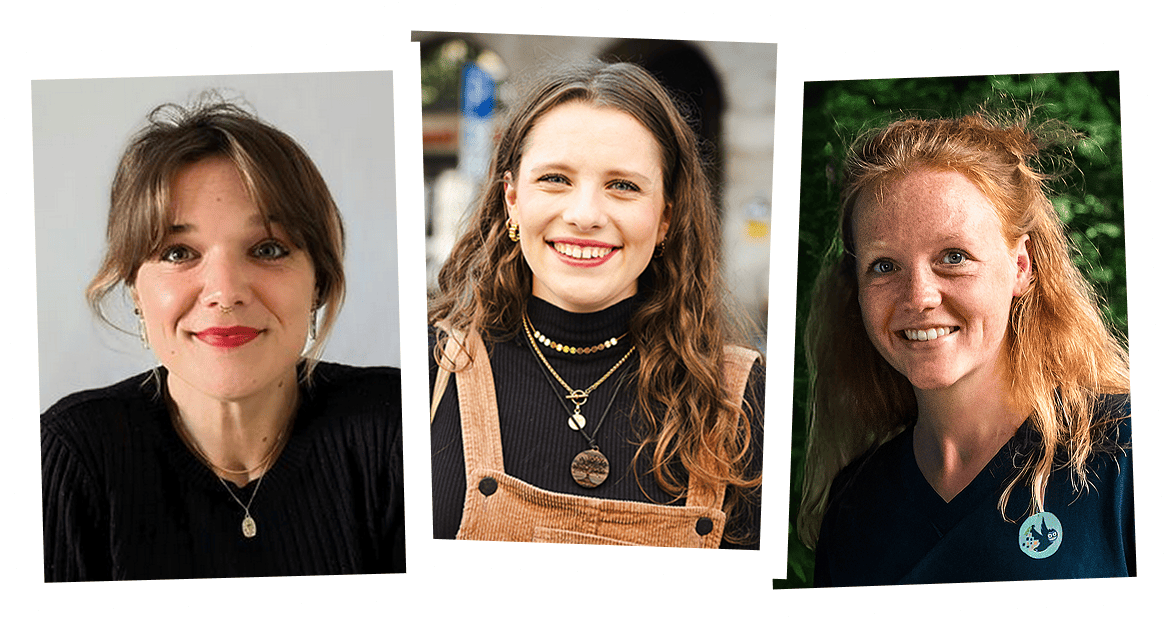
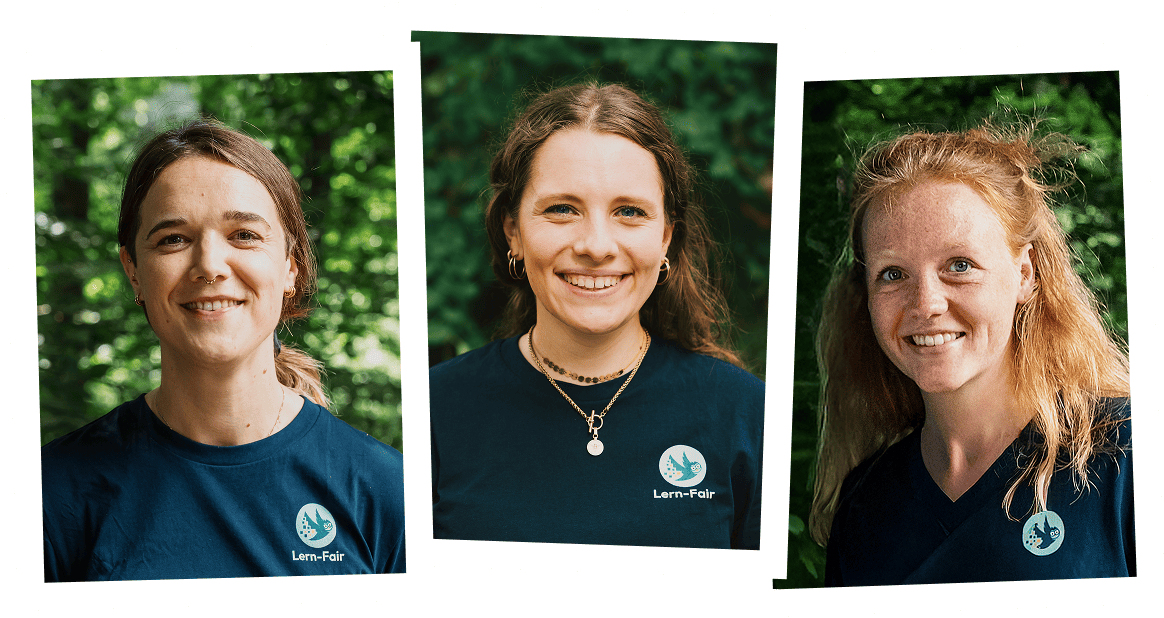
Fix: Feedback after launch reg funnel (#889)
## Ticket

Resolves https://github.com/corona-school/project-user/issues/1538 (90%)

## What was done?

- Updated student screeners portrait 
- Update optional button variants
- Add support email in pupil faq
- Include link to AGB in settings and Registration profile menu
- Added a button to join the screening call on the screening details
appointment
- Removed the Welcome page / added redirection to the login page

diff --git a/src/pages/registration/ScreeningAppointmentDetails.tsx b/src/pages/registration/ScreeningAppointmentDetails.tsx
@@ -3,7 +3,7 @@ import { RegistrationStep, RegistrationStepDescription, RegistrationStepProps, R
 import { useRegistrationForm } from './useRegistrationForm';
 import { Typography } from '@/components/Typography';
 import { Button } from '@/components/Button';
-import { IconCheck } from '@tabler/icons-react';
+import { IconCheck, IconVideo } from '@tabler/icons-react';
 import AddToCalendarDropdown from '@/components/AddToCalendarDropdown';
 import { useEffect } from 'react';
 import CenterLoadingSpinner from '@/components/CenterLoadingSpinner';
@@ -12,6 +12,7 @@ import i18next from 'i18next';
 import Logo from '@/assets/icons/logo.svg';
 import { usePageTitle } from '@/hooks/usePageTitle';
 import { useMatomo } from '@jonkoops/matomo-tracker-react';
+import { useCanJoinMeeting } from '@/hooks/useCanJoinMeeting';
 
 interface ScreeningAppointmentDetailProps extends RegistrationStepProps {
     variant?: 'registered' | 'completed';
@@ -25,6 +26,7 @@ export const ScreeningAppointmentDetail = ({ onNext, variant = 'registered' }: S
         completed: `Registrierung: Funnel abgeschlossen (${form.userType === 'pupil' ? 'Schüler:in' : 'Helfer:in'})`,
     };
     usePageTitle(pageTitles[variant]);
+    const canStartMeeting = useCanJoinMeeting(5, form.screeningAppointment?.start!, form.screeningAppointment?.duration!);
     const { trackEvent } = useMatomo();
 
     useEffect(() => {
@@ -77,12 +79,25 @@ export const ScreeningAppointmentDetail = ({ onNext, variant = 'registered' }: S
                 {DateTime.fromISO(form.screeningAppointment.start).toFormat('t', { locale: i18next.language })} {t('clock')}
             </Typography>
             {form.screeningAppointment && (
-                <AddToCalendarDropdown
-                    buttonVariant="optional"
-                    buttonClasses="w-full lg:w-[306px]"
-                    appointment={form.screeningAppointment}
-                    onSelect={() => trackEvent({ category: eventCategory, action: eventAction, name: 'Button Click - Add to Calendar' })}
-                />
+                <div className="flex flex-col gap-y-2 w-full lg:w-[306px]">
+                    <AddToCalendarDropdown
+                        buttonVariant="optional-dark"
+                        buttonClasses="w-full lg:w-[306px]"
+                        appointment={form.screeningAppointment}
+                        onSelect={() => trackEvent({ category: eventCategory, action: eventAction, name: 'Button Click - Add to Calendar' })}
+                    />
+                    <Button
+                        disabled={!form.screeningAppointment?.override_meeting_link || !canStartMeeting}
+                        reasonDisabled={`${t('registration.steps.appointmentDetails.joinMeetingHint')}`}
+                        onClick={() =>
+                            form.screeningAppointment?.override_meeting_link && window.open(form.screeningAppointment?.override_meeting_link, '_blank')
+                        }
+                        leftIcon={<IconVideo />}
+                        className="w-full lg:w-[306px]"
+                    >
+                        {t('registration.steps.appointmentDetails.joinCall')}
+                    </Button>
+                </div>
             )}
             <div className="flex gap-x-2 mt-4 mb-10 lg:max-w-[306px] w-full">
                 <Button

diff --git a/src/routing/NavigatorLazy.tsx b/src/routing/NavigatorLazy.tsx
@@ -545,12 +545,7 @@ export default function NavigatorLazy() {
             <Route
                 path="/datenschutz"
                 element={
-                    <WithNavigation
-                        showBack={isMobileSM}
-                        hideMenu={isMobileSM || sessionState !== 'logged-in'}
-                        previousFallbackRoute="/settings"
-                        headerTitle="Datenschutz"
-                    >
+                    <WithNavigation showBack hideMenu previousFallbackRoute="/settings" headerTitle="Datenschutz">
                         <IFrame title="datenschutz" src="https://www.lern-fair.de/iframe/datenschutz" />
                     </WithNavigation>
                 }
@@ -558,12 +553,7 @@ export default function NavigatorLazy() {
             <Route
                 path="/agb-schueler"
                 element={
-                    <WithNavigation
-                        showBack={isMobileSM}
-                        hideMenu={isMobileSM || sessionState !== 'logged-in'}
-                        previousFallbackRoute="/settings"
-                        headerTitle="AGB Schüler"
-                    >
+                    <WithNavigation showBack hideMenu previousFallbackRoute="/settings" headerTitle="AGB Schüler">
                         <IFrame title="agb-schueler" src="https://www.lern-fair.de/iframe/agb-schueler" />
                     </WithNavigation>
                 }
@@ -571,12 +561,7 @@ export default function NavigatorLazy() {
             <Route
                 path="/agb-helfer"
                 element={
-                    <WithNavigation
-                        showBack={isMobileSM}
-                        hideMenu={isMobileSM || sessionState !== 'logged-in'}
-                        previousFallbackRoute="/settings"
-                        headerTitle="AGB Helfer"
-                    >
+                    <WithNavigation showBack hideMenu previousFallbackRoute="/settings" headerTitle="AGB Helfer">
                         <IFrame title="agb-helfer" src="https://www.lern-fair.de/iframe/agb-helfer" />
                     </WithNavigation>
                 }

diff --git a/src/pages/registration/DropdownRegistrationMenu.tsx b/src/pages/registration/DropdownRegistrationMenu.tsx
@@ -5,7 +5,7 @@ import { cn } from '@/lib/Tailwind';
 import { ContactSupportModal } from '@/modals/ContactSupportModal';
 import DeactivateAccountModal from '@/modals/DeactivateAccountModal';
 import NotificationPreferencesModal from '@/modals/NotificationPreferencesModal';
-import { IconMenu2, IconBell, IconLifebuoy, IconUserOff, IconLogout } from '@tabler/icons-react';
+import { IconMenu2, IconBell, IconLifebuoy, IconUserOff, IconLogout, IconSectionSign } from '@tabler/icons-react';
 import { useState } from 'react';
 import { useTranslation } from 'react-i18next';
 import { useNavigate } from 'react-router-dom';
@@ -50,6 +50,13 @@ export const DropdownRegistrationMenu = () => {
                     <DropdownMenuItem className="gap-x-[10px] h-12" onClick={() => setIsDeactivateAccountOpen(true)}>
                         <IconUserOff className="!size-6" />
                         <Typography className="font-semibold leading-3">{t('registration.menu.deactivateAccount')}</Typography>
+                    </DropdownMenuItem>
+                    <DropdownMenuItem
+                        className="gap-x-[10px] h-12"
+                        onClick={() => window.open(form.userType === 'pupil' ? `${window.origin}/agb-schueler` : `${window.origin}/agb-helfer`, '_blank')}
+                    >
+                        <IconSectionSign className="!size-6" />
+                        <Typography className="font-semibold leading-3">{t('registration.menu.agb')}</Typography>
                     </DropdownMenuItem>
                     <DropdownMenuItem className="gap-x-[10px] h-12" onClick={handleOnLogout}>
                         <IconLogout className="!size-6" />

diff --git a/src/routing/Navigator.tsx b/src/routing/Navigator.tsx
@@ -5,9 +5,8 @@ import CenterLoadingSpinner from '../components/CenterLoadingSpinner';
 
 // These Pages are loaded initially:
 import Login from '../pages/Login';
-import Welcome from '../pages/Welcome';
 import LoginToken from '../pages/LoginToken';
-import { RequireAuth, VisitorsOnly } from '../User';
+import { RequireAuth } from '../User';
 import FullPageModal from '../modals/FullPageModal';
 import { lazyWithRetry } from '../lazy';
 import Logout from '../components/Logout';
@@ -29,14 +28,7 @@ export default function Navigator() {
                 <Route path="/login-token" element={<LoginToken />} />
                 <Route path="/login-with" element={<LoginWithIDP />} />
                 <Route path="/logout" element={<Logout />} />
-                <Route
-                    path="/welcome"
-                    element={
-                        <VisitorsOnly>
-                            <Welcome />
-                        </VisitorsOnly>
-                    }
-                />
+                <Route path="/welcome" element={<Navigate to="/login" />} />
 
                 <Route
                     path="/"

diff --git a/src/pages/registration/ZipCode.tsx b/src/pages/registration/ZipCode.tsx
@@ -30,7 +30,16 @@ export const ZipCode = ({ onBack, onNext }: ZipCodeProps) => {
             </Typography>
             <div className="flex flex-col gap-y-3 w-full max-w-20 pb-32 md:pb-0">
                 <div className="w-full flex flex-col justify-center gap-y-1">
-                    <Input autoFocus={!form.zipCode} variant="white" className="w-full h-12" value={form.zipCode || ''} onChangeText={onChange} />
+                    <Input
+                        autoFocus={!form.zipCode}
+                        variant="white"
+                        type="number"
+                        className="w-full h-12"
+                        value={form.zipCode || ''}
+                        onChangeText={onChange}
+                        onKeyDown={(evt) => ['e', 'E', '+', '-'].includes(evt.key) && evt.preventDefault()}
+                        maxLength={5}
+                    />
                 </div>
             </div>
         </RegistrationStep>

diff --git a/src/components/Button.tsx b/src/components/Button.tsx
@@ -23,6 +23,7 @@ const buttonVariants = cva(
                 input: 'border border-input justify-between bg-transparent text-form font-normal ring-offset-background placeholder:text-gray-400 focus:outline-none focus:ring-1 focus:ring-ring disabled:cursor-not-allowed disabled:opacity-50 [&>span]:w-full [&>span]:justify-between',
                 linkedIn: 'bg-blue-700 text-white hover:bg-blue-600/90',
                 optional: 'bg-white text-primary border border-primary hover:bg-primary-lighter hover:border-primary-light',
+                'optional-dark': 'bg-white text-primary border border-primary hover:bg-accent-dark hover:border-primary',
                 tertiary: 'bg-gray-100 hover:bg-gray-50 text-primary',
                 'accent-dark': 'bg-accent-medium hover:bg-accent-dark font-normal text-primary active:bg-primary active:text-white active:underline',
             },

diff --git a/src/pages/registration/BookAppointment.tsx b/src/pages/registration/BookAppointment.tsx
@@ -198,6 +198,11 @@ export const BookAppointment = ({ onNext }: BookAppointmentProps) => {
                                                             hier findest du ein Erklärvideo
                                                         </a>
                                                     ),
+                                                    supportEmail: (
+                                                        <a className="inline underline text-primary" href="mailto:support@lern-fair.de">
+                                                            support@lern-fair.de
+                                                        </a>
+                                                    ),
                                                 }}
                                             />
                                         </Typography>

diff --git a/src/widgets/AppointmentTile.tsx b/src/widgets/AppointmentTile.tsx
@@ -133,7 +133,7 @@ const AppointmentTile: React.FC<Props> = ({
                         )}
                         {appointmentId && !wasRejected && !declinedBy?.length && !isPastAppointment && !isCurrentlyTakingPlace && (
                             <AddToCalendarDropdown
-                                buttonVariant="optional"
+                                buttonVariant="optional-dark"
                                 buttonClasses="w-full lg:w-[300px]"
                                 appointment={{ id: appointmentId, displayName, title, start, duration, description: description ?? '' }}
                             />

diff --git a/src/pages/registration/AcceptanceCheckFailed.tsx b/src/pages/registration/AcceptanceCheckFailed.tsx
@@ -20,7 +20,7 @@ export const AcceptanceCheckFailed = ({ onTryAgain }: AcceptanceCheckFailedProps
                 <Button className="w-full" onClick={() => window.open('https://digitale-lernangebote.de/', '_blank')}>
                     {t('registration.steps.acceptanceCheckFailed.seeOtherOffers')}
                 </Button>
-                <Button className="w-full" variant="optional" onClick={onTryAgain}>
+                <Button className="w-full" variant="optional-dark" onClick={onTryAgain}>
                     {t('registration.steps.acceptanceCheckFailed.tryAgain')}
                 </Button>
             </div>

diff --git a/src/pages/Settings.tsx b/src/pages/Settings.tsx
@@ -151,6 +151,9 @@ const Settings: React.FC = () => {
                         <Column mb={tabspace}>
                             <ListItem label={t('settings.legal.datapolicy')} onPress={() => navigate('/datenschutz')} />
                         </Column>
+                        <Column mb={tabspace}>
+                            <ListItem label={t('settings.legal.agb')} onPress={() => navigate(`/${userType === 'pupil' ? 'agb-schueler' : 'agb-helfer'}`)} />
+                        </Column>
                     </ProfileSettingRow>
                 </VStack>
             </WithNavigation>

diff --git a/src/pages/Login.tsx b/src/pages/Login.tsx
@@ -303,7 +303,7 @@ const Login = () => {
                                         disabled={isDeterminingLoginOptions || isRequestingToken || isAuthenticating}
                                         type="button"
                                         className="w-full"
-                                        variant="optional"
+                                        variant="optional-dark"
                                         rightIcon={<IconBrandGoogleFilled size={16} />}
                                         onClick={loginWithGoogle}
                                     >

diff --git a/src/pages/registration/AuthenticationInfo.tsx b/src/pages/registration/AuthenticationInfo.tsx
@@ -133,7 +133,7 @@ export const AuthenticationInfo = ({ onBack, onNext }: AuthenticationInfoProps) 
                         <Button
                             type="button"
                             className="w-full"
-                            variant="optional"
+                            variant="optional-dark"
                             rightIcon={<IconBrandGoogleFilled size={16} />}
                             onClick={handleOnLoginWithGoogle}
                         >
